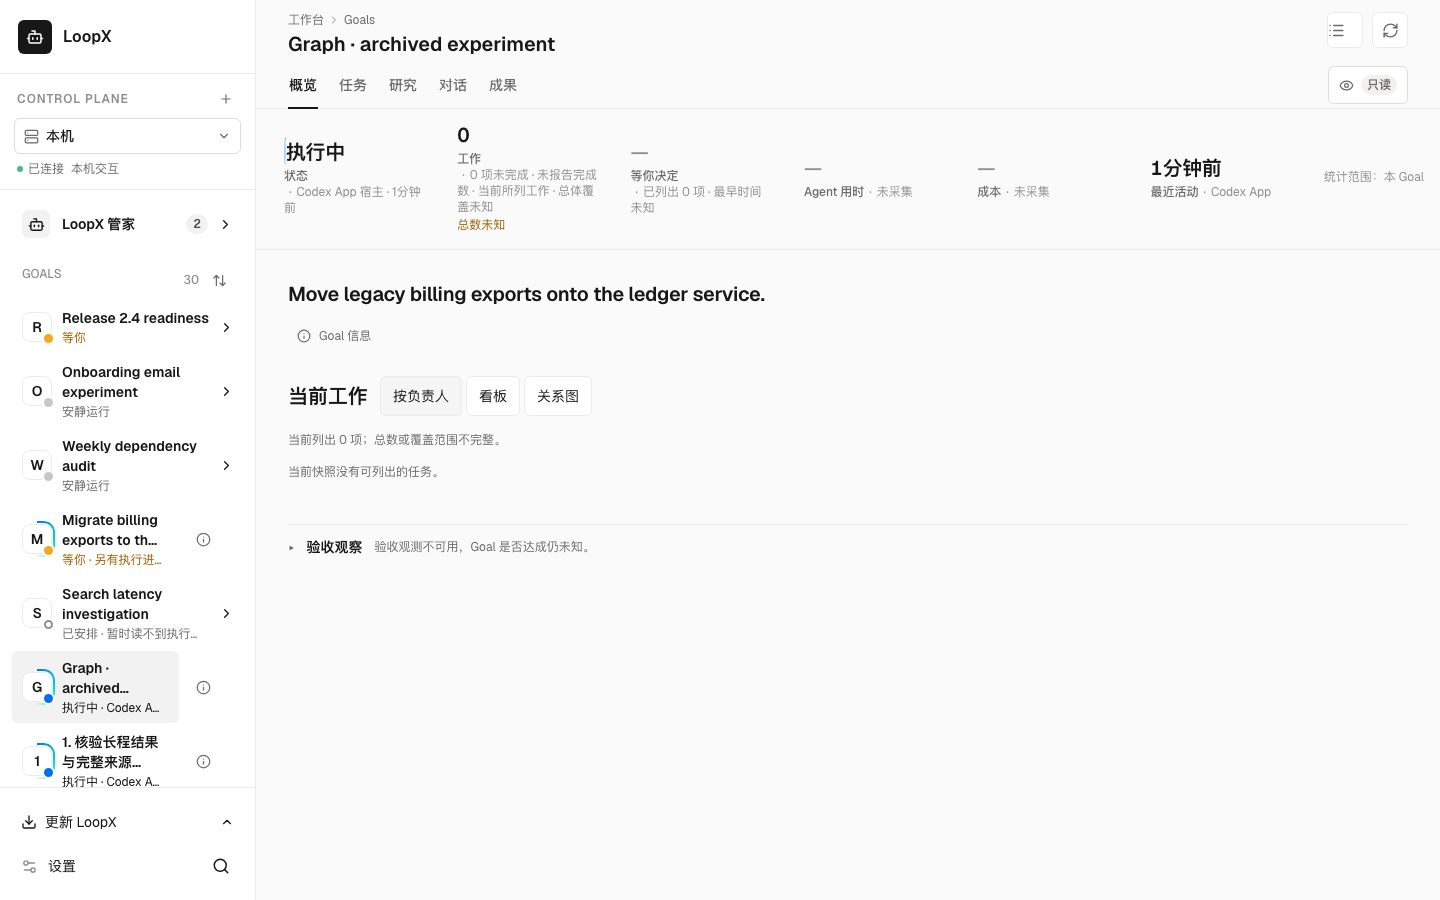
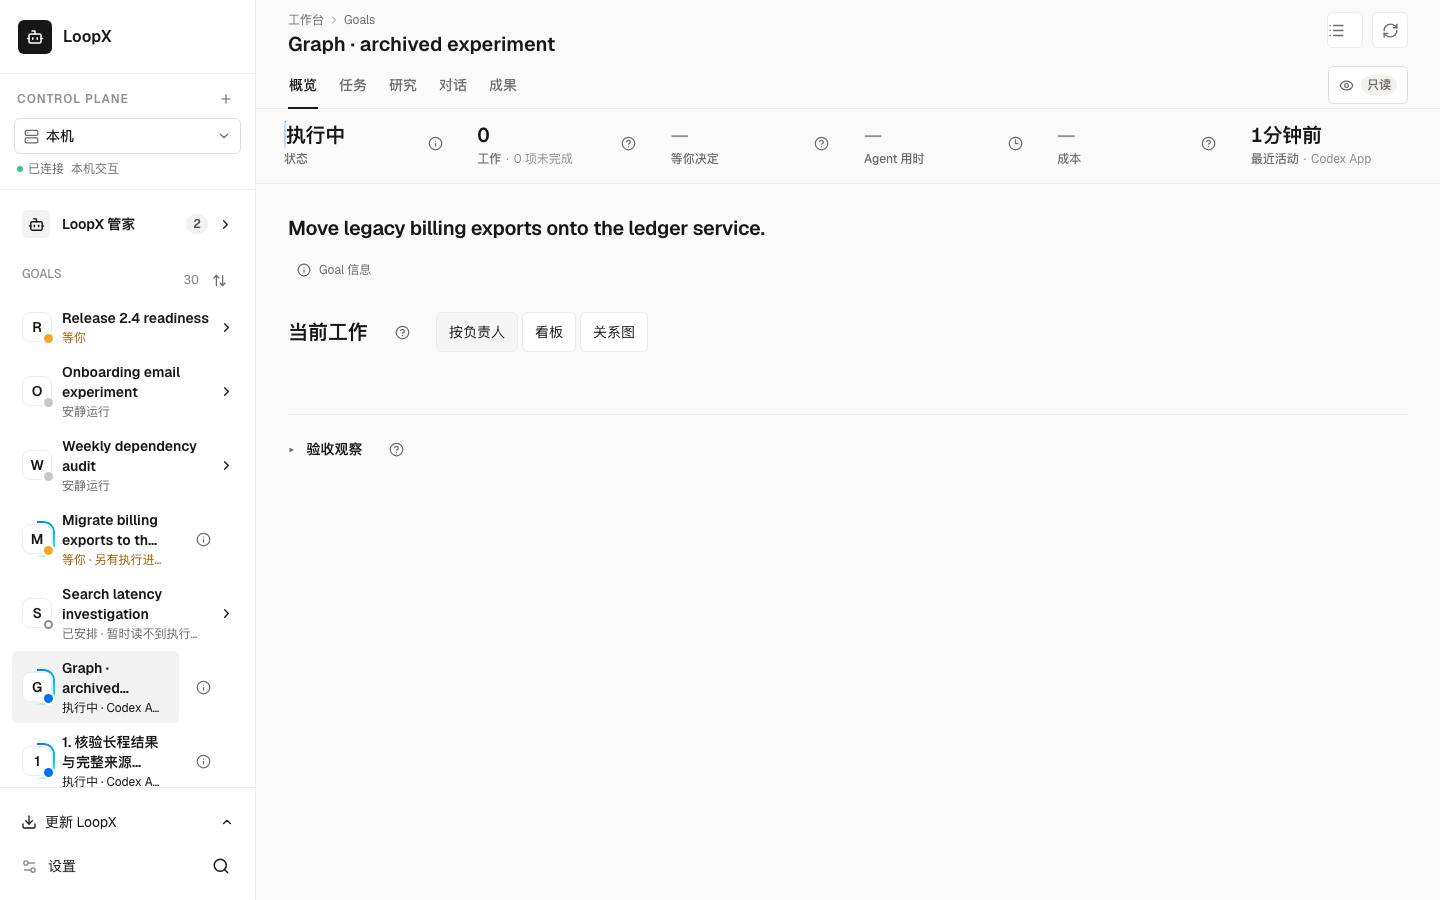
docs(workspace): refresh whole-page contextual help evidence

diff --git a/apps/presentation/dashboard/smoke/assets/workspace-navigation/README.md b/apps/presentation/dashboard/smoke/assets/workspace-navigation/README.md
@@ -24,7 +24,19 @@ or touch hardware. `LOOPX_NAVIGATION_CAPTURE_BASE=1` is only the baseline
 capture/reproduction mode; it does not run the new behavior assertions.
 
 Whole-page judgment: the stable lower row makes Settings discoverable while
-reading the archive and removes a competing navigation card. Optional help is
-visible on search hover/focus. The surrounding long Goal names and unrelated
-missing-state summaries are retained; this change does not redesign all Goal
-content or certify the full settings catalogue.
+reading the archive and removes a competing navigation card. Actual values,
+required permissions, action outcomes and recovery remain direct. Coverage,
+missing-observation and methodology explanations use contextual glyphs, with
+complete hover, focus and tap readback. The empty/partial Overview no longer
+stacks duplicate disclaimers. Help uses body text and stays within the viewport.
+Research captures use the real read-only HTTP owner with synthetic measurements
+and long analysis; judgments, unknown values and original citations are retained.
+The unanalysed-scope glyph sits beside the result heading. The expanded phone
+view shows the original full rationale and evidence. This is whole-page visual
+inspection and interaction evidence, not a human comprehension study or a
+qualification of every setting, platform or native input method.
+
+The glyph and research phone captures are 390×844. The research desktop is
+1280×900. Reproduce research views with the packaged `research-history` browser
+scenario. Both before and after captures are synthetic; archived source names
+are fixture labels, not a claim that benchmark work was executed.
